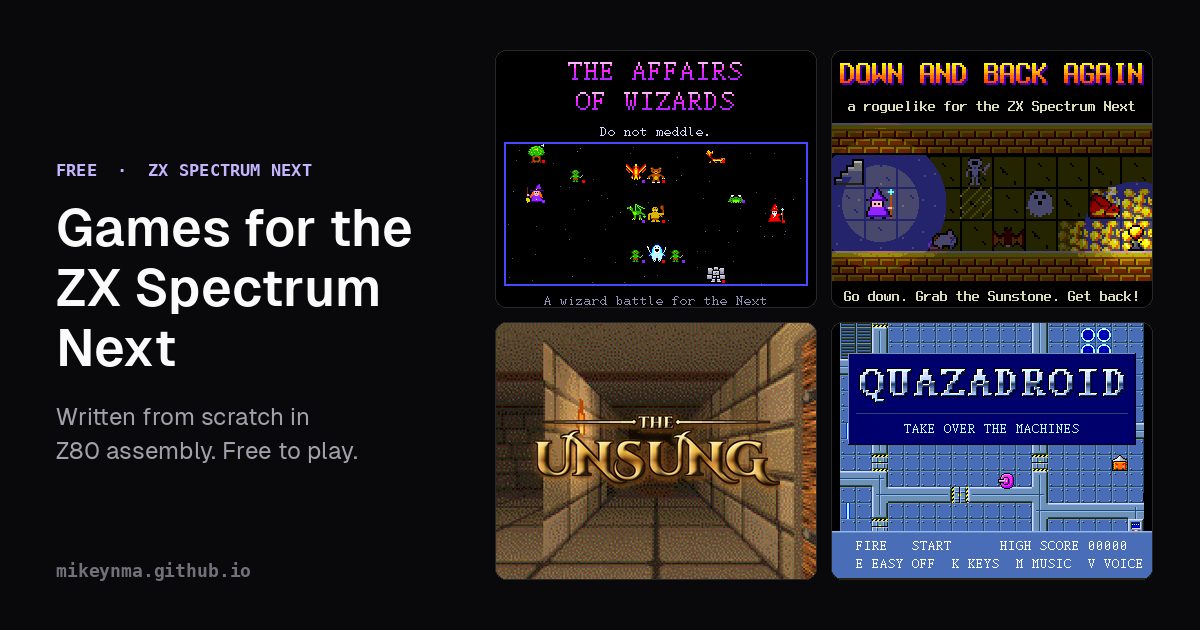
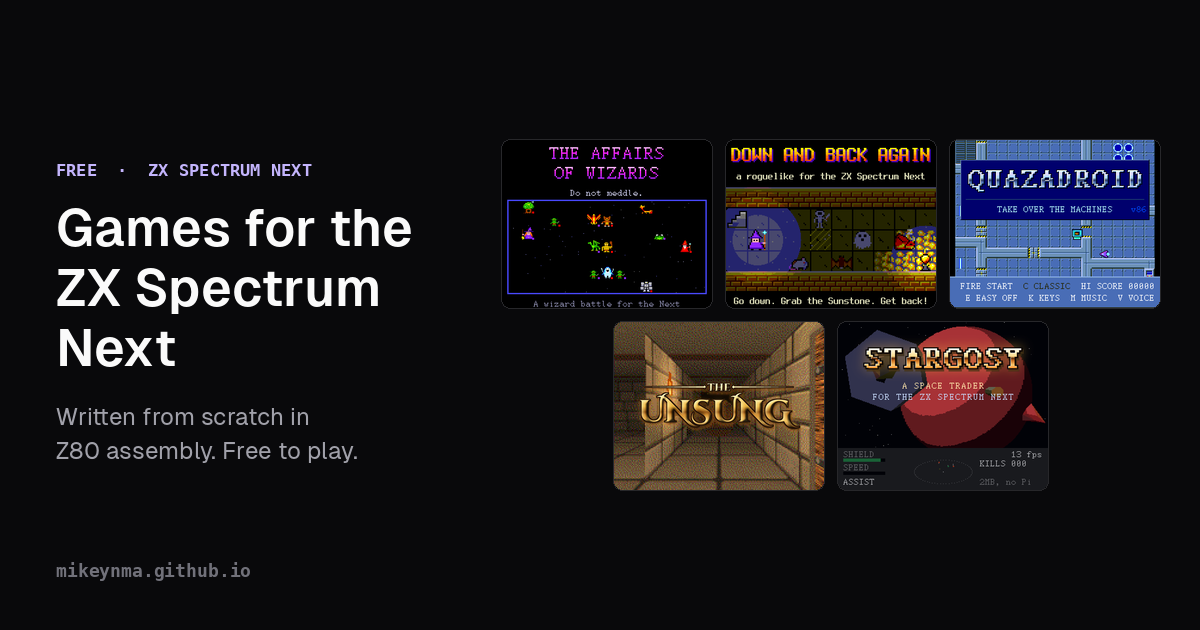
Stargosy's card (coming soon); the share picture shows all five games, three above and two below

diff --git a/index.html b/index.html
@@ -4,7 +4,7 @@
 <meta charset="utf-8">
 <meta name="viewport" content="width=device-width, initial-scale=1">
 <title>Games for the ZX Spectrum Next</title>
-<meta name="description" content="Free games for the ZX Spectrum Next, written from scratch in Z80 assembly: a wizard battle, a roguelike, a party RPG and a robot-takeover game on the way.">
+<meta name="description" content="Free games for the ZX Spectrum Next, written from scratch in Z80 assembly: a wizard battle, a roguelike, a robot-takeover game, and a party RPG and a space trader on the way.">
 <meta property="og:title" content="Games for the ZX Spectrum Next">
 <meta property="og:description" content="Free games for the ZX Spectrum Next, written from scratch in Z80 assembly.">
 <meta property="og:type" content="website">
@@ -12,7 +12,7 @@
 <meta property="og:image" content="https://mikeynma.github.io/share.png">
 <meta property="og:image:width" content="1200">
 <meta property="og:image:height" content="630">
-<meta property="og:image:alt" content="The Affairs of Wizards, Down and Back Again, The Unsung and Quazadroid: games for the ZX Spectrum Next">
+<meta property="og:image:alt" content="The Affairs of Wizards, Down and Back Again, Quazadroid, The Unsung and Stargosy: games for the ZX Spectrum Next">
 <meta name="twitter:card" content="summary_large_image">
 <meta name="twitter:image" content="https://mikeynma.github.io/share.png">
 <link rel="icon" href="favicon-32.png" sizes="32x32">
@@ -109,6 +109,15 @@ footer { border-top: 1px solid var(--border); color: var(--muted); font-size: 0.
         <img class="logo" src="the-unsung/logo.webp" alt="">
         <h2>The Unsung</h2>
         <p>Someone is stealing the songs of Mardle-on-Wend. A first-person party RPG with a bard at its head.</p>
+        <div class="meta"><span class="badge">Coming soon</span><span class="go">See the plans &rarr;</span></div>
+      </div>
+    </a>
+    <a class="game" href="stargosy/">
+      <img class="shot" src="stargosy/shots/title-card.png" width="640" height="512" alt="Stargosy: brass letters over a space station, ships and a red planet, a space trader for the ZX Spectrum Next">
+      <div class="body">
+        <img class="logo" src="stargosy/logo-hub.png" alt="">
+        <h2>Stargosy</h2>
+        <p>One small ship, a galaxy of 256 stars, and a living to make. Fly, fight, dock and trade in solid, shaded 3D.</p>
         <div class="meta"><span class="badge">Coming soon</span><span class="go">See the plans &rarr;</span></div>
       </div>
     </a>

diff --git a/share.py b/share.py
@@ -1,17 +1,18 @@
 #!/usr/bin/env python3
 """Draw share.png, the 1200x630 picture links to the hub show (og:image).
-Four games' pictures in a 2x2 grid, from their repos in ~/www. Rerun after
+The games' pictures, three above and two below, from their repos in ~/www. Rerun after
 changing which games the card shows, and look at the result."""
 from pathlib import Path
 from PIL import Image, ImageDraw, ImageFont
 
 HERE = Path(__file__).parent
 WWW = HERE.parent
-GAMES = [  # 640x512 shots, drawn at half size
+GAMES = [  # 640x512 shots, drawn at a third: three above, two below
     WWW / "chaos/site/shots/title-card.png",
     WWW / "next-rogue/site/shots/hero.png",
-    "unsung",
     WWW / "quazadroid/site/shots/title.png",
+    "unsung",
+    WWW / "stargosy/site/shots/title-card.png",
 ]
 
 
@@ -36,14 +37,18 @@ def unsung():  # its shots are 352x288 with no title: a corridor with its logo o
 W, H = 1200, 630
 img = Image.new("RGB", (W, H), "#09090b")
 d = ImageDraw.Draw(img)
-gx, gy, gap = W - 48 - 656, (H - 528) // 2, 16
-corner = Image.new("L", (320, 256), 0)
-ImageDraw.Draw(corner).rounded_rectangle((0, 0, 319, 255), 10, fill=255)
+CW, CH, gap = 210, 168, 14
+gx, gy = W - 40 - (3 * CW + 2 * gap), (H - (2 * CH + gap)) // 2
+corner = Image.new("L", (CW, CH), 0)
+ImageDraw.Draw(corner).rounded_rectangle((0, 0, CW - 1, CH - 1), 8, fill=255)
 for i, g in enumerate(GAMES):
-    shot = unsung() if g == "unsung" else Image.open(g).convert("RGB").resize((320, 256), Image.NEAREST)
-    x, y = gx + (i % 2) * (320 + gap), gy + (i // 2) * (256 + gap)
+    shot = unsung() if g == "unsung" else Image.open(g).convert("RGB")
+    shot = shot.resize((CW, CH), Image.LANCZOS)
+    row, col = divmod(i, 3)
+    x = gx + col * (CW + gap) + (row * (CW + gap) // 2)   # (the two below sit between the three above)
+    y = gy + row * (CH + gap)
     img.paste(shot, (x, y), corner)
-    d.rounded_rectangle((x - 1, y - 1, x + 320, y + 256), 11, outline="#27272a")
+    d.rounded_rectangle((x - 1, y - 1, x + CW, y + CH), 9, outline="#27272a")
 
 x = 56
 d.text((x, 160), "FREE  ·  ZX SPECTRUM NEXT", font=mono(17), fill="#c4b5fd")
